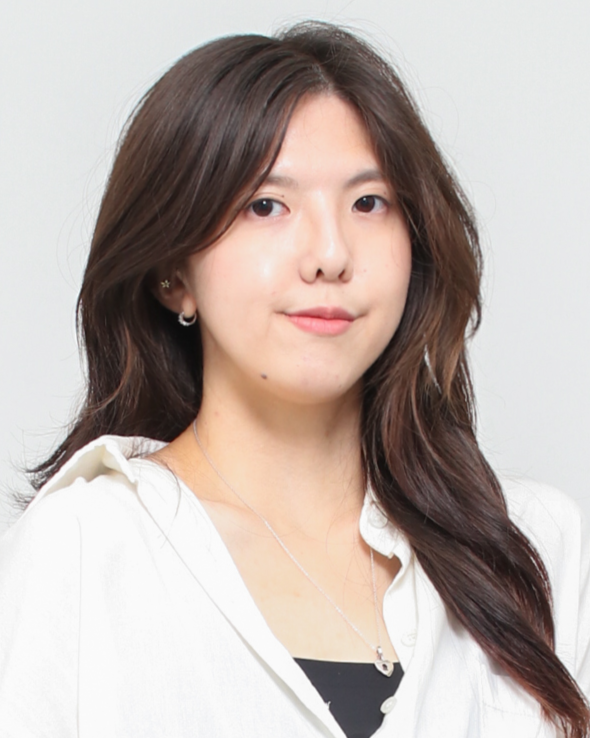
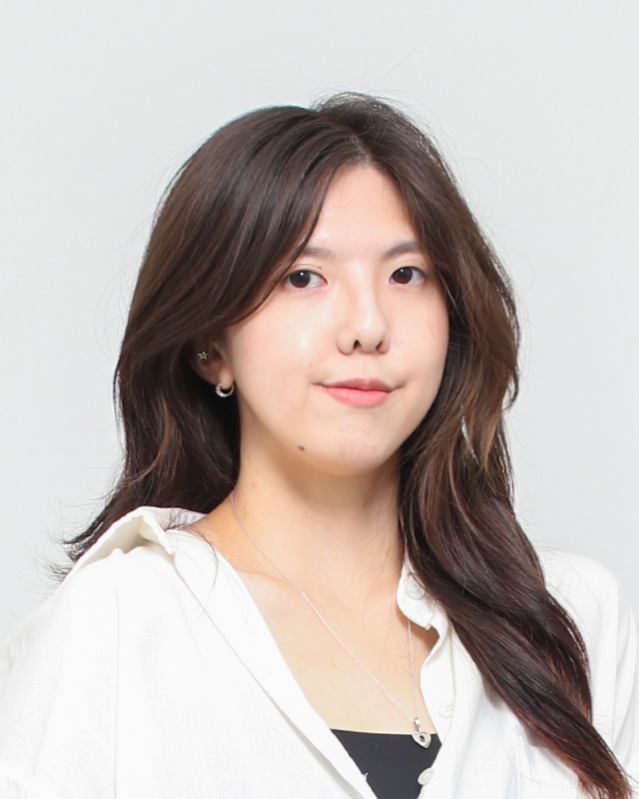
change img and add about

diff --git a/_pages/about.md b/_pages/about.md
@@ -1,15 +1,18 @@
 ---
 permalink: /
-title: "Academic Pages is a ready-to-fork GitHub Pages template for academic personal websites"
+title: "Damin Kim"
 author_profile: true
 redirect_from: 
   - /about/
   - /about.html
 ---
+Hi, I am Damin Kim.
+I'm a M.S. in **Immersive Media Engineering** at Sungkyunkwan University (SKKU), Seoul, Republic of Korea, and a member of the SWLab led by Prof. Moohong Min.
+I have interest in **LLM jailbreak**, **AI security**, and **educational technology**.
 
-This is the front page of a website that is powered by the [Academic Pages template](https://github.com/academicpages/academicpages.github.io) and hosted on GitHub pages. [GitHub pages](https://pages.github.com) is a free service in which websites are built and hosted from code and data stored in a GitHub repository, automatically updating when a new commit is made to the repository. This template was forked from the [Minimal Mistakes Jekyll Theme](https://mmistakes.github.io/minimal-mistakes/) created by Michael Rose, and then extended to support the kinds of content that academics have: publications, talks, teaching, a portfolio, blog posts, and a dynamically-generated CV. Incidentally, these same features make it a great template for anyone that needs to show off a professional template!
+<!-- This is the front page of a website that is powered by the [Academic Pages template](https://github.com/academicpages/academicpages.github.io) and hosted on GitHub pages. [GitHub pages](https://pages.github.com) is a free service in which websites are built and hosted from code and data stored in a GitHub repository, automatically updating when a new commit is made to the repository. This template was forked from the [Minimal Mistakes Jekyll Theme](https://mmistakes.github.io/minimal-mistakes/) created by Michael Rose, and then extended to support the kinds of content that academics have: publications, talks, teaching, a portfolio, blog posts, and a dynamically-generated CV. Incidentally, these same features make it a great template for anyone that needs to show off a professional template!
 
- You can fork [this template](https://github.com/academicpages/academicpages.github.io) right now, modify the configuration and Markdown files, add your own PDFs and other content, and have your own site for free, with no ads!
+ You can fork [this template](https://github.com/academicpages/academicpages.github.io) right now, modify the configuration and Markdown files, add your own PDFs and other content, and have your own site for free, with no ads! -->
 
 A data-driven personal website
 ======
